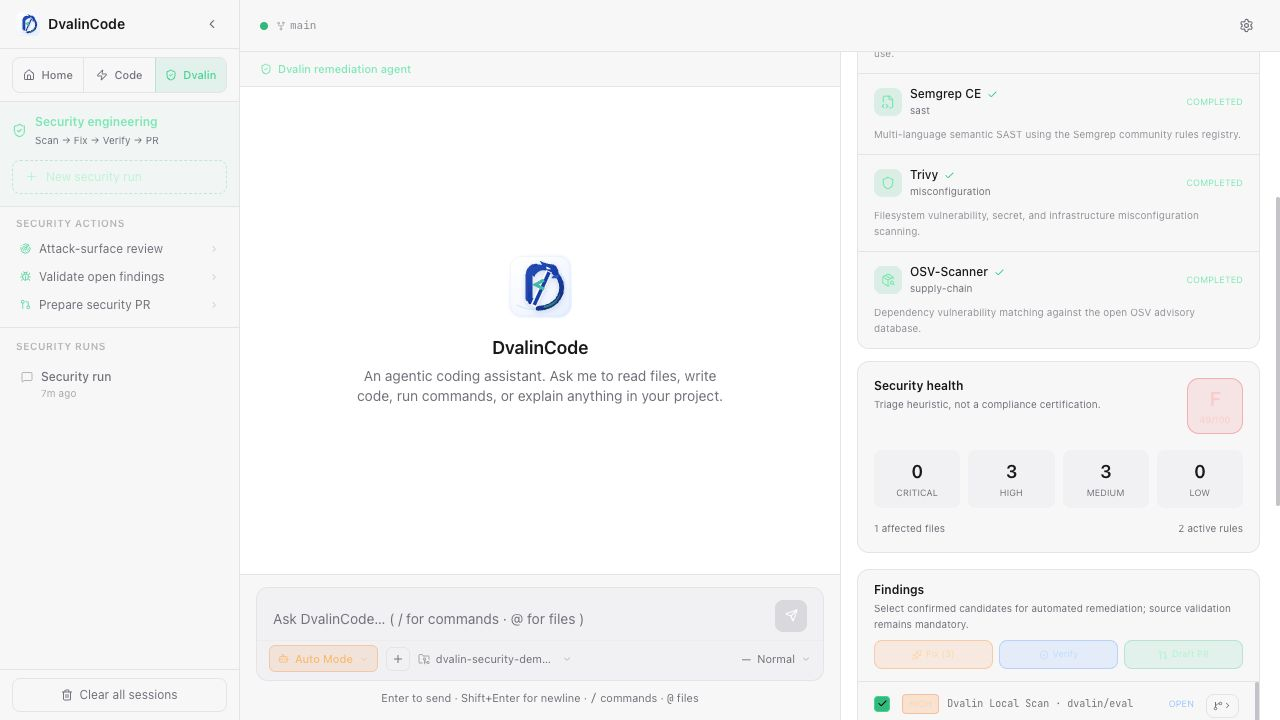
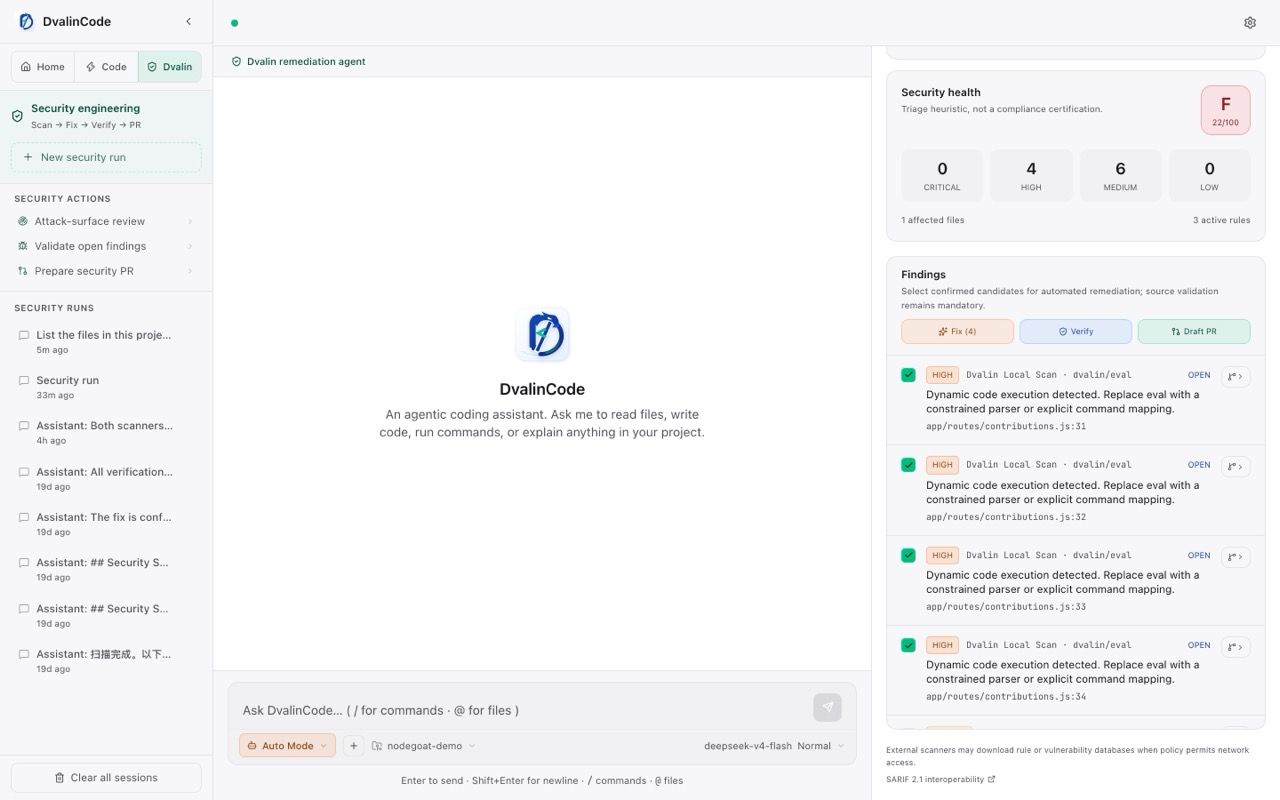
docs: re-shoot the Dvalin README images from a real, re-verified run
The README's scan images predated the workspace redesign, so they no longer
matched the app — and they showed the light-theme contrast bug this branch
fixes: in the old hero, "New security run" and the Fix / Verify / Draft PR
actions are washed out to the point of being unreadable.

Re-captured from one real run, not a mock and not a staged screen:

- Subject: the contribution route from the OWASP NodeGoat commit the README
  already documents (Apache-2.0), with local stubs written here so the route
  loads and its tests execute. No private code is shown — the alternative,
  scanning a real project, would have put private paths and live vulnerabilities
  into a public README.
- Before: builtin + Semgrep CE + Trivy + OSV-Scanner reported 10 findings,
  22/100 · F, each eval located to its line.
- Fix: the model replaced the three `eval(req.body.*)` call sites with a
  constrained numeric parser and added an injection regression test.
- After: `npm test` 2 → 3 passing, re-scan 0 findings, 100/100 · A.

Every number was re-verified independently of the model's own report — its
claims happened to hold, but the images are backed by my own scan, test run,
and diff rather than by its summary.

The old numbers (6 findings, 49/F) came from a different, earlier run, so the
table, captions, alt text, and both site pages move to the numbers actually
shown in the new images. The animation is regenerated from the same two PNGs
with ffmpeg, so no asset contradicts another.
[…]

diff --git a/README.md b/README.md
@@ -52,11 +52,11 @@ a draft PR. Dvalin never treats its health score as certification; source review
 and verification remain mandatory.
 
 <p align="center">
-  <img src="assets/dvalin-remediation.gif" alt="Dvalin 0.14.0 scanning a vulnerable OWASP NodeGoat example, then showing a clean verified re-scan" width="100%">
+  <img src="assets/dvalin-remediation.gif" alt="Dvalin scanning a vulnerable OWASP NodeGoat example at 22/100 F with 10 findings, then showing a clean verified re-scan at 100/100 A" width="100%">
 </p>
 
-This animation is made from the real v0.14.0 application, not a mock. The input
-is an Apache-2.0-licensed example adapted from
+This animation is made from the real application, not a mock. The input is an
+Apache-2.0-licensed example adapted from
 [OWASP NodeGoat](https://github.com/OWASP/NodeGoat/tree/c5cb68a7084e4ae7dcc60e6a98768720a81841e8/app/routes),
 whose contribution route evaluated user-controlled text.
 
@@ -66,10 +66,10 @@ Code builds software. **Dvalin is the second major product surface:** it turns
 open-source scanner evidence into a controlled scan → fix → test → re-scan →
 draft-PR workflow.
 
-| Real v0.14.0 NodeGoat-derived run | Before | After Dvalin remediation |
+| Real NodeGoat-derived run | Before | After Dvalin remediation |
 |---|---:|---:|
-| Security health (triage heuristic) | 49 / 100 · F | 100 / 100 · A |
-| Findings | 6 (`eval` across 2 rules) | 0 |
+| Security health (triage heuristic) | 22 / 100 · F | 100 / 100 · A |
+| Findings | 10 (`eval` across 3 rules, 2 engines) | 0 |
 | Tests | 2 passing | 3 passing, including an injection regression test |
 | Scanner fleet | 4 / 4 completed | 4 / 4 completed |
 
@@ -364,28 +364,32 @@ not claim third-party ISO certification.
 
 ## 📸 Preview
 
-**A real Dvalin scan of vulnerable code — 6 findings, 49/F:**
+**A real Dvalin scan of vulnerable code — Security health 22/100 · F, with the
+10 findings the engines actually reported, located to the line:**
 
 <p align="center">
-  <img src="assets/hero.png" alt="Dvalin 0.14.0 showing six findings and a 49/F security health score in a NodeGoat-derived example" width="100%">
+  <img src="assets/hero.png" alt="Dvalin Security health showing 22/100 F with 4 high and 6 medium findings, and a Findings list locating each eval to a line in the NodeGoat-derived route" width="100%">
 </p>
 
-**The verified result — three source fixes, one new regression test, all four
-open-source scanner integrations complete, 0 findings, 100/A:**
+**The verified result — the three `eval` call sites replaced by a constrained
+numeric parser, one new injection regression test, all four open-source engines
+complete, 0 findings, 100/100 · A:**
 
 <p align="center">
-  <img src="assets/dvalin-scan-after.jpg" alt="Dvalin 0.14.0 verified re-scan with zero findings and a 100/A security health score" width="100%">
+  <img src="assets/dvalin-scan-after.jpg" alt="Dvalin verified re-scan showing 100/100 A, zero findings, and the remediation run that produced it" width="100%">
 </p>
 
-**Home → Code → Dvalin — the current v0.14.0 workspaces:**
+**Home → Code → Dvalin — the current workspaces:**
 
 <p align="center">
-  <img src="assets/modes.gif" alt="DvalinCode 0.14.0 switching between Home, Code, and Dvalin" width="100%">
+  <img src="assets/modes.gif" alt="DvalinCode switching between Home, Code, and Dvalin" width="100%">
 </p>
 
-The images above were captured from the v0.14.0 UI while running the documented
-NodeGoat-derived case. Older Chat/Cowork/Routines and legacy terminal recordings
-have been removed so every README product image matches the current app.
+The scan images above are unedited captures of a real run against the documented
+NodeGoat-derived case: the scanners were run, the model repaired the source, the
+project's tests were run, and the tree was re-scanned. Nothing is staged, and a
+100/A means the configured engines found nothing — not that the code is proven
+safe.
 
 ---
 

diff --git a/README.zh-CN.md b/README.zh-CN.md
@@ -50,10 +50,10 @@ dvalincode dvalin . --scanners builtin,semgrep,trivy,osv-scanner
 安全认证；源码审查与验证始终必不可少。
 
 <p align="center">
-  <img src="assets/dvalin-remediation.gif" alt="Dvalin 0.14.0 扫描有漏洞的 OWASP NodeGoat 示例并展示修复后的干净复扫" width="100%">
+  <img src="assets/dvalin-remediation.gif" alt="Dvalin 扫描有漏洞的 OWASP NodeGoat 示例得到 22/100 F 与 10 条发现，修复后复扫为 100/100 A" width="100%">
 </p>
 
-这段动图来自真实的 v0.14.0 应用，不是设计稿。输入代码改编自 Apache-2.0
+这段动图来自真实应用，不是设计稿。输入代码改编自 Apache-2.0
 许可的 [OWASP NodeGoat](https://github.com/OWASP/NodeGoat/tree/c5cb68a7084e4ae7dcc60e6a98768720a81841e8/app/routes)，
 原始 contribution route 会执行用户可控文本。
 
@@ -62,10 +62,10 @@ dvalincode dvalin . --scanners builtin,semgrep,trivy,osv-scanner
 Code 负责构建软件。**Dvalin 是本项目第二条产品主线**：把开源扫描器的证据
 组织成受控的“扫描 → 修复 → 测试 → 复扫 → Draft PR”闭环。
 
-| v0.14.0 NodeGoat 改编案例 | 修复前 | Dvalin 修复后 |
+| NodeGoat 改编案例真实运行 | 修复前 | Dvalin 修复后 |
 |---|---:|---:|
-| 安全健康分（分诊启发式） | 49 / 100 · F | 100 / 100 · A |
-| 发现项 | 6 条（2 条规则命中 `eval`） | 0 条 |
+| 安全健康分（分诊启发式） | 22 / 100 · F | 100 / 100 · A |
+| 发现项 | 10 条（2 个引擎、3 条规则命中 `eval`） | 0 条 |
 | 测试 | 2 条通过 | 3 条通过，新增注入回归测试 |
 | 扫描器 | 4 / 4 完成 | 4 / 4 完成 |
 
@@ -303,27 +303,29 @@ DvalinCode 维护项目级治理证据，便于开源用户和企业安全评审
 
 ## 📸 预览
 
-**真实漏洞代码的 Dvalin 扫描——6 条发现，49/F：**
+**真实漏洞代码的 Dvalin 扫描——安全健康分 22/100 · F，以及引擎实际报出的
+10 条发现，逐行定位：**
 
 <p align="center">
-  <img src="assets/hero.png" alt="Dvalin 0.14.0 在 NodeGoat 改编案例中显示 6 条发现与 49/F 安全健康分" width="100%">
+  <img src="assets/hero.png" alt="Dvalin 安全健康分显示 22/100 F、4 条高危与 6 条中危，Findings 列表把每处 eval 定位到 NodeGoat 改编路由的具体行" width="100%">
 </p>
 
-**验证后的结果——修复 3 处源码、新增 1 条回归测试、4 个开源扫描器集成均完成，
-0 条发现，100/A：**
+**验证后的结果——3 处 `eval` 调用改为受约束的数值解析、新增 1 条注入回归测试、
+4 个开源引擎均完成，0 条发现，100/100 · A：**
 
 <p align="center">
-  <img src="assets/dvalin-scan-after.jpg" alt="Dvalin 0.14.0 验证复扫为 0 条发现与 100/A 安全健康分" width="100%">
+  <img src="assets/dvalin-scan-after.jpg" alt="Dvalin 验证复扫显示 100/100 A、0 条发现，以及产生该结果的修复会话" width="100%">
 </p>
 
-**Home → Code → Dvalin——v0.14.0 当前三个工作区：**
+**Home → Code → Dvalin——当前三个工作区：**
 
 <p align="center">
-  <img src="assets/modes.gif" alt="DvalinCode 0.14.0 在 Home、Code 与 Dvalin 之间切换" width="100%">
+  <img src="assets/modes.gif" alt="DvalinCode 在 Home、Code 与 Dvalin 之间切换" width="100%">
 </p>
 
-以上画面均在文档所述 NodeGoat 改编案例上由 v0.14.0 真实运行截图生成。旧版
-Chat/Cowork/Routines 与历史终端录屏已从 README 移除，确保所有产品图与当前应用一致。
+以上扫描画面是文档所述 NodeGoat 改编案例上一次真实运行的未修图截图：先运行扫描器，
+再由模型修复源码，然后运行项目测试并复扫。没有任何摆拍；100/A 只代表所配置的引擎
+未发现问题，不代表代码已被证明安全。
 
 ---
 

diff --git a/assets/ASSET_PROVENANCE.md b/assets/ASSET_PROVENANCE.md
@@ -7,8 +7,8 @@ website, and release materials.
 |---|---|---|
 | `logo.png` | Created for DvalinCode | Project logo used in README and release branding. |
 | `docs/public/logo-light.png`, `docs/public/logo-dark.png` | Derived from `logo.png` | Theme-aware website variants, generated programmatically (per-pixel: white background → transparent; dark variant additionally inverts the neutral wordmark and lifts brand colors for dark UI). No third-party artwork. |
-| `hero.png`, `dvalin-scan-before.jpg`, `dvalin-scan-after.jpg` | Recorded from DvalinCode v0.14.0 | Real local application captures from the Dvalin scanner workspace. The demo source is adapted from OWASP NodeGoat commit `c5cb68a7084e4ae7dcc60e6a98768720a81841e8`, Apache-2.0 licensed. It contains no NodeGoat brand assets or private data. |
-| `dvalin-remediation.gif` | Derived from the real v0.14.0 captures above | Before/after animation of the same scan: 6 findings and 49/F before remediation; 0 findings and 100/A after three source fixes, one regression test, and a clean re-scan. |
+| `hero.png`, `dvalin-scan-before.jpg`, `dvalin-scan-after.jpg` | Recorded from DvalinCode v0.14.1 | Unedited captures of the Dvalin workspace during one real run. The demo source is adapted from OWASP NodeGoat commit `c5cb68a7084e4ae7dcc60e6a98768720a81841e8`, Apache-2.0 licensed, with local stubs written for this project so the route loads and its tests execute. Contains no NodeGoat brand assets and no private data. The run: `builtin + semgrep + trivy + osv-scanner` reported **10 findings, 22/100 · F**; the model replaced the three `eval(req.body.*)` call sites with a constrained numeric parser and added one injection regression test; `npm test` went 2 → 3 passing; the re-scan reported **0 findings, 100/100 · A**. Every number was re-verified independently of the model's own report. |
+| `dvalin-remediation.gif` | Derived from the two captures above | Before/after animation of that same run, generated with ffmpeg from the unmodified PNGs. No frames are synthesized. |
 | `modes.gif` | Recorded from DvalinCode v0.14.0 | Current Home → Code → Dvalin workspace walkthrough. |
 
 Tracked screenshots under `docs/screenshots/` and `poc/screenshots/` are product

diff --git a/docs/index.md b/docs/index.md
@@ -63,11 +63,12 @@ The Dvalin command runs the built-in rules and any supported open-source engines
 installed on `PATH`. Use `--fix --verify --in-place` to prepare focused repairs,
 run tests, and require a clean re-scan before draft-PR publication.
 
-![Dvalin 0.14.0 real scan and verified remediation](/dvalin-remediation.gif)
+![Dvalin real scan and verified remediation](/dvalin-remediation.gif)
 
-The real v0.14.0 case shown above is adapted from OWASP NodeGoat. It moved from
-6 findings and 49/F to 0 findings and 100/A after three source fixes and a new
-injection regression test. The score is a triage heuristic, not certification.
+The real case shown above is adapted from OWASP NodeGoat. It moved from 10
+findings and 22/F to 0 findings and 100/A after the three `eval` call sites were
+replaced by a constrained numeric parser and an injection regression test was
+added. The score is a triage heuristic, not certification.
 
 Dvalin combines the MIT-licensed DvalinCode pipeline with open-source
 [Semgrep CE](https://github.com/semgrep/semgrep),

diff --git a/docs/zh/index.md b/docs/zh/index.md
@@ -63,10 +63,11 @@ dvalincode dvalin . --scanners builtin,semgrep,trivy,osv-scanner
 加上 `--fix --verify --in-place` 可准备聚焦修复、运行测试，并要求复扫干净后
 才进入 Draft PR 发布阶段。
 
-![Dvalin 0.14.0 真实扫描与验证修复](/dvalin-remediation.gif)
+![Dvalin 真实扫描与验证修复](/dvalin-remediation.gif)
 
-上面的 v0.14.0 真实案例改编自 OWASP NodeGoat：三处源码修复并新增一条注入
-回归测试后，从 6 条发现、49/F 变为 0 条、100/A。该分数是分诊启发式，不是认证。
+上面的真实案例改编自 OWASP NodeGoat：三处 `eval` 调用改为受约束的数值解析并
+新增一条注入回归测试后，从 10 条发现、22/F 变为 0 条、100/A。该分数是分诊
+启发式，不是认证。
 
 Dvalin 将 MIT 许可的 DvalinCode 流水线与开源
 [Semgrep CE](https://github.com/semgrep/semgrep)、
